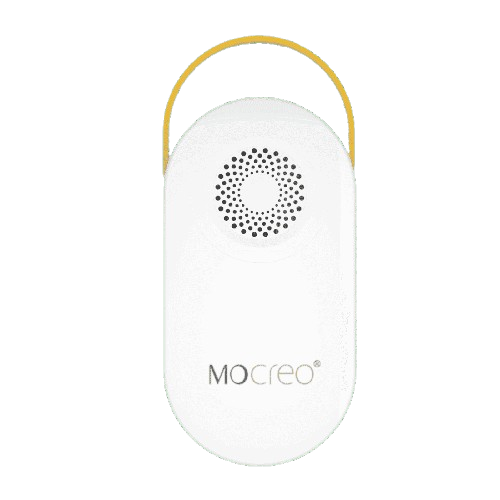
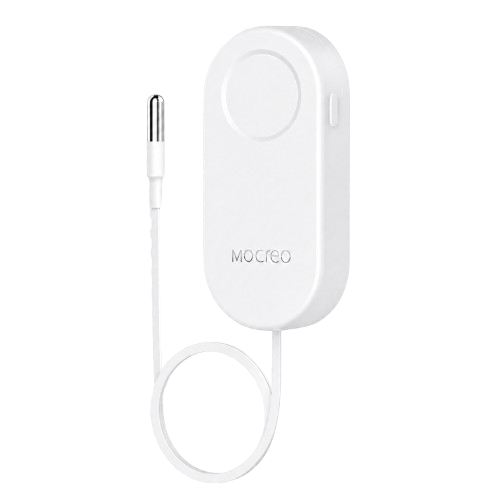
Merge pull request #1543 from thomas201012/master
feat(mocreo): add MS3 sensor, adjust MS2 to temperature-only

Pull request: feat(mocreo): add MS3 sensor, adjust MS2 to temperature-only
- Add MS3 (0x96) temperature sensor with display
- Change MS2 type code from 0x8D to 0x95 and remove humidity
- Update tests, docs, and product images for both models

diff --git a/custom_components/ble_monitor/test/test_mocreo_parser.py b/custom_components/ble_monitor/test/test_mocreo_parser.py
@@ -115,7 +115,7 @@ class TestMOCREO:
 
     def test_MOCREO_MS2(self):
         """Test MOCREO parser for MS2."""
[2 lines of base64/hex data omitted]
         data = bytes(bytearray.fromhex(data_string))
 
         # pylint: disable=unused-variable
@@ -126,7 +126,6 @@ class TestMOCREO:
         assert sensor_msg["mac"] == "30AEA400AABB"
         assert sensor_msg["packet"] == "no packet id"
         assert sensor_msg["temperature"] == 26.15
-        assert sensor_msg["humidity"] == 47.06
         assert sensor_msg["battery"] == 100
         assert sensor_msg["data"]
         assert sensor_msg["rssi"] == -42
@@ -147,3 +146,20 @@ class TestMOCREO:
         assert sensor_msg["battery"] == 100
         assert sensor_msg["data"]
         assert sensor_msg["rssi"] == -63
+
+    def test_MOCREO_MS3(self):
+        """Test MOCREO parser for MS3."""
[1 lines of base64/hex data omitted]
+        data = bytes(bytearray.fromhex(data_string))
+
+        # pylint: disable=unused-variable
+        ble_parser = BleParser()
+        sensor_msg, tracker_msg = ble_parser.parse_raw_data(data)
+        assert sensor_msg["firmware"] == "MOCREO"
+        assert sensor_msg["type"] == "MS3"
+        assert sensor_msg["mac"] == "30AEA400AABB"
+        assert sensor_msg["packet"] == "no packet id"
+        assert sensor_msg["temperature"] == 26.75
+        assert sensor_msg["battery"] == 100
+        assert sensor_msg["data"]
+        assert sensor_msg["rssi"] == -45

diff --git a/custom_components/ble_monitor/ble_parser/mocreo.py b/custom_components/ble_monitor/ble_parser/mocreo.py
@@ -15,7 +15,8 @@ MOCREO_TYPE_DICT = {
     0x86: "ST9",
     0x87: "ST10",
     0x8B: "MS1",
-    0x8D: "MS2",
+    0x94: "MS2",
+    0x96: "MS3",
 }
 
 COMMON_DATA_PARSING_FORMAT = {
@@ -53,9 +54,11 @@ MOCREO_TYPE_DATA_PARSING_FORMAT = {
     0x8B: {
         "temperature": (6, 0, -16, True, lambda x: x / 100),
     },
-    0x8D: {
+    0x94: {
         "temperature": (6, 0, -16, True, lambda x: x / 100),
-        "humidity": (8, 0, -16, True, lambda x: x / 100),
+    },
+    0x96: {
+        "temperature": (6, 0, -16, True, lambda x: x / 100),
     },
 }
 

diff --git a/custom_components/ble_monitor/const.py b/custom_components/ble_monitor/const.py
@@ -2206,7 +2206,8 @@ MEASUREMENT_DICT = {
     'ST9'                     : [["temperature", "humidity", "battery", "rssi"], [], []],
     'ST10'                    : [["temperature", "battery", "rssi"], [], []],
     'MS1'                     : [["temperature", "battery", "rssi"], [], []],
-    'MS2'                     : [["temperature", "humidity", "battery", "rssi"], [], []],
+    'MS2'                     : [["temperature", "battery", "rssi"], [], []],
+    'MS3'                     : [["temperature", "battery", "rssi"], [], []],
 	'TMS'                     : [["temperature", "voltage", "pressure", "count", "steps", "text", "rssi"], [], []],
     'S-MATE'                  : [["rssi"], ["three btn switch left", "three btn switch middle", "three btn switch right"], []],
     'R5'                      : [["rssi"], ["six btn switch top left", "six btn switch top middle", "six btn switch top right", "six btn switch bottom left", "six btn switch bottom middle", "six btn switch bottom right"], []],
@@ -2361,6 +2362,7 @@ MANUFACTURER_DICT = {
     'ST10'                    : 'MOCREO',
     'MS1'                     : 'MOCREO',
     'MS2'                     : 'MOCREO',
+    'MS3'                     : 'MOCREO',
 	'TMS'                     : 'Michelin',
     'S-MATE'                  : 'Sonoff',
     'R5'                      : 'Sonoff',